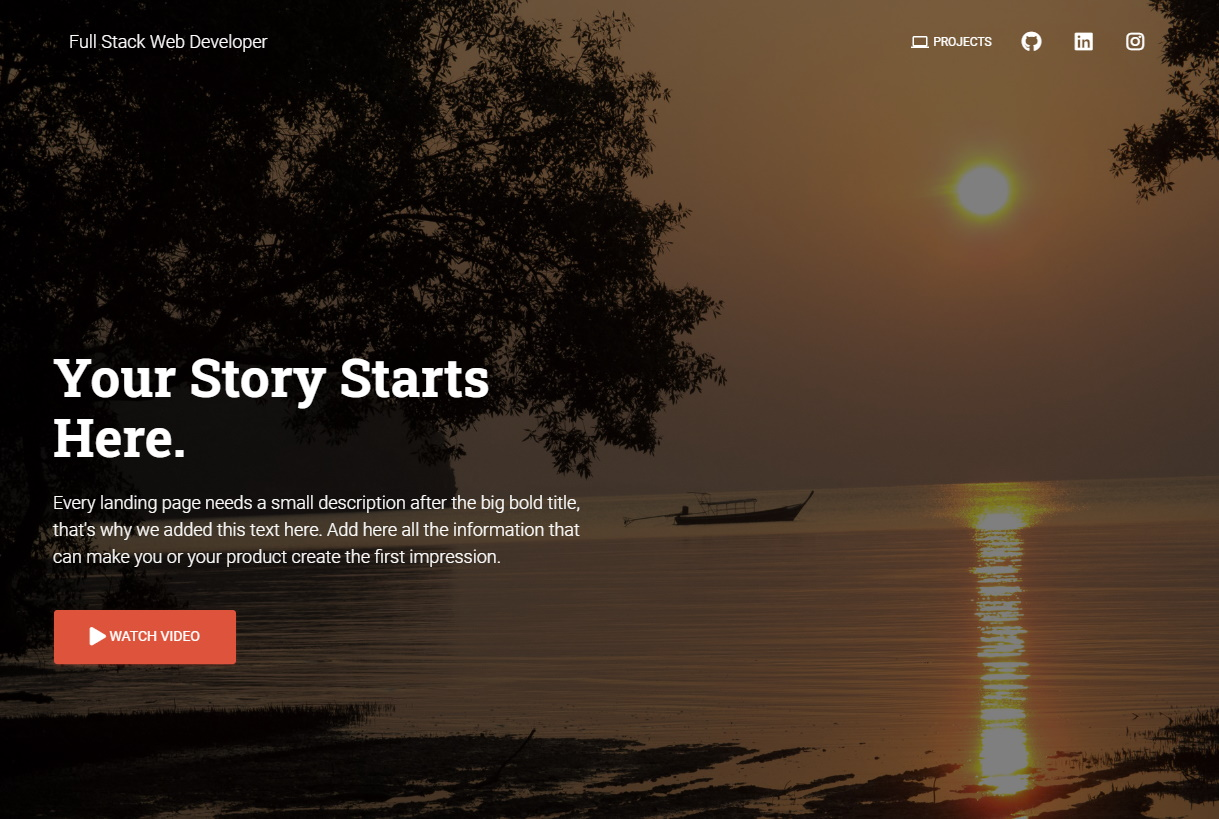
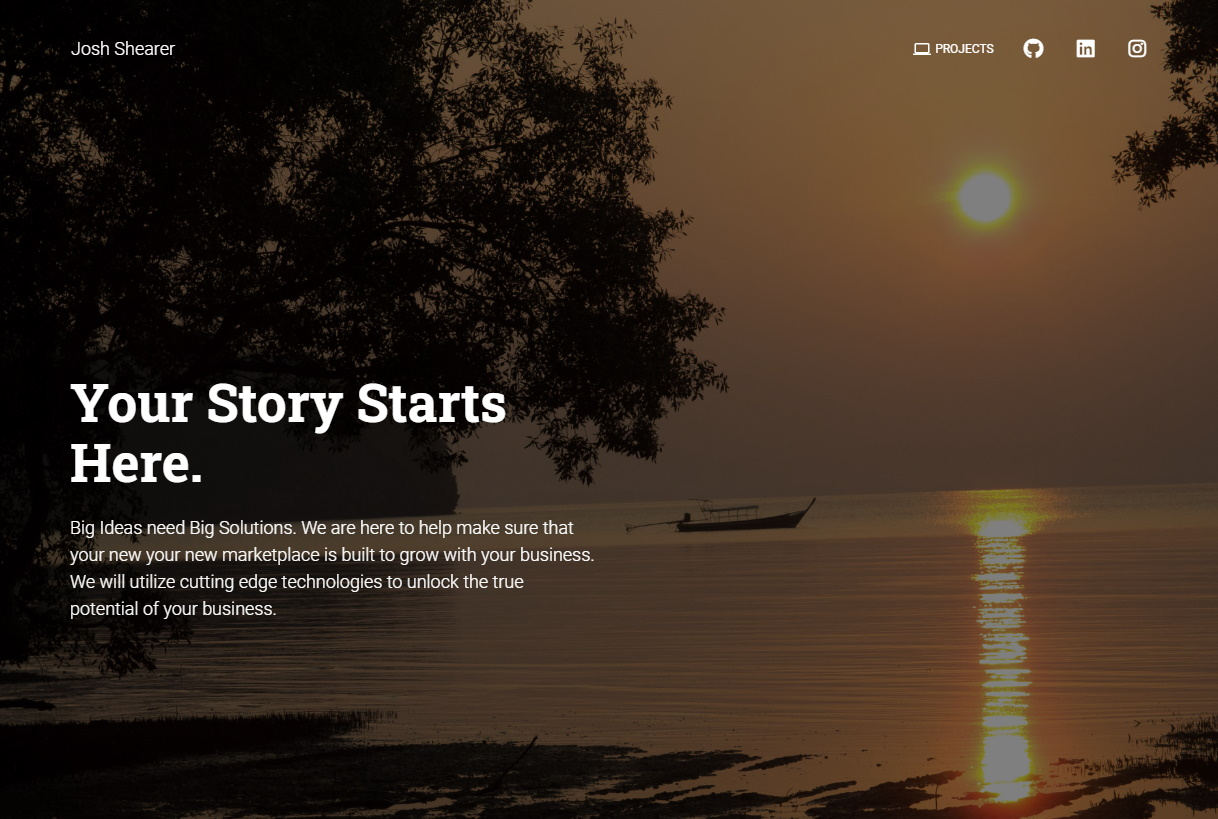
First solid rough draft complete.  Need to add data to projects in the future.

diff --git a/views/LandingPage/Sections/ProductSection.js b/views/LandingPage/Sections/ProductSection.js
@@ -3,9 +3,12 @@ import React from "react";
 import { makeStyles } from "@material-ui/core/styles";
 
 // @material-ui/icons
-import Chat from "@material-ui/icons/Chat";
+import VPNKey from "@material-ui/icons/VpnKey";
 import VerifiedUser from "@material-ui/icons/VerifiedUser";
 import Fingerprint from "@material-ui/icons/Fingerprint";
+import FlightTakeoff from "@material-ui/icons/FlightTakeoff";
+import SentimentVerySatisfied from "@material-ui/icons/SentimentVerySatisfied";
+import TrendingUp from "@material-ui/icons/TrendingUp";
 // core components
 import GridContainer from "components/Grid/GridContainer.js";
 import GridItem from "components/Grid/GridItem.js";
@@ -21,13 +24,13 @@ export default function ProductSection() {
     <div className={classes.section}>
       <GridContainer justify="center">
         <GridItem xs={12} sm={12} md={8}>
-          <h2 className={classes.title}>Let{"'"}s talk product</h2>
+          <h2 className={classes.title}>Let{"'"}s talk projects</h2>
           <h5 className={classes.description}>
-            This is the paragraph where you can write more details about your
-            product. Keep you user engaged by providing meaningful information.
-            Remember that by this time, the user is curious, otherwise he wouldn
-            {"'"}t scroll to get here. Add a button if you want the user to see
-            more.
+            We provide custom development solutions. Our focus in on small
+            business and startup's that need to develop a scalable web presence
+            in one or more of the following: eCommerce/Online shopping,
+            iPhone/Android app development (React), data analysis and machine
+            learning.
           </h5>
         </GridItem>
       </GridContainer>
@@ -35,17 +38,17 @@ export default function ProductSection() {
         <GridContainer>
           <GridItem xs={12} sm={12} md={4}>
             <InfoArea
-              title="Free Chat"
-              description="Divide details about your product or agency work into parts. Write a few lines about each one. A paragraph describing a feature will be enough."
-              icon={Chat}
+              title="Ecommerce"
+              description="Speed and security are a priority when helping our clients develop an ecommerce presence.  Providing a great customer experience will help your business grow beyond expectations."
+              icon={VPNKey}
               iconColor="info"
               vertical
             />
           </GridItem>
           <GridItem xs={12} sm={12} md={4}>
             <InfoArea
-              title="Verified Users"
-              description="Divide details about your product or agency work into parts. Write a few lines about each one. A paragraph describing a feature will be enough."
+              title="High Speed"
+              description="We optimize the front end on the same technology used to makes websites and apps like facebook ultra fast despite the large datasets present."
               icon={VerifiedUser}
               iconColor="success"
               vertical
@@ -53,9 +56,36 @@ export default function ProductSection() {
           </GridItem>
           <GridItem xs={12} sm={12} md={4}>
             <InfoArea
-              title="Fingerprint"
-              description="Divide details about your product or agency work into parts. Write a few lines about each one. A paragraph describing a feature will be enough."
+              title="Scalable"
+              description="We focus on the future of your business. From websites to apps to customer relationships.  We build solutions that are built to remain lighting fast requiring minimal upkeep as your business grows by magnitudes"
               icon={Fingerprint}
+              iconColor="danger"
+              vertical
+            />
+          </GridItem>
+          <GridItem xs={12} sm={12} md={4}>
+            <InfoArea
+              title="Data Driven"
+              description="We can help you put your data to use in a way that helps to grow your business.  Most data is collected but never completely utilized to drive improved sales and customer support."
+              icon={TrendingUp}
+              iconColor="danger"
+              vertical
+            />
+          </GridItem>
+          <GridItem xs={12} sm={12} md={4}>
+            <InfoArea
+              title="Deep Learning"
+              description="You would be surprised what happens when you put your existing dataset to good use."
+              icon={FlightTakeoff}
+              iconColor="danger"
+              vertical
+            />
+          </GridItem>
+          <GridItem xs={12} sm={12} md={4}>
+            <InfoArea
+              title="Friends and Partners"
+              description="We focus our business on helping our customers grow."
+              icon={SentimentVerySatisfied}
               iconColor="danger"
               vertical
             />

diff --git a/views/ProjectsPage/MyProjects.js b/views/ProjectsPage/MyProjects.js
@@ -3,7 +3,7 @@ export const MyProjects = [
     id: 0,
     title: "Travel Diary Mobile App",
     skills:
-      "Scrum, Design Patters, React State Management, Full Stack Web Developement, Authorization, CSS",
+      "Scrum, Design Patterns, React State Management, Full Stack Web Developement, Authorization, CSS",
     toolset: "React, NodeJs, Express, MongoDB, Firebase, JS, ",
     notableLibraries: "Material-UI",
     keyLessons:
@@ -16,12 +16,11 @@ export const MyProjects = [
   {
     id: 1,
     title: "Algorithmic Trading",
-    skills:
-      "Scrum, Design Patters, React State Management, Full Stack Web Developement, Authorization, CSS",
-    toolset: "React, NodeJs, Express, MongoDB, Firebase, JS, ",
+    skills: "Scrum, Design Patters, Python OOP, API interaction, Authorization",
+    toolset: "Python, API, Portfolio Management, Risk Management ",
     notableLibraries: "Material-UI",
     keyLessons:
-      "This was a challenging and pivotal project.  It taught me about all the intricasies of the react front-end especially as it relates to state management",
+      "This project is ongoing and has been a great opportunity to test trading strategies and free up some personal time in the process.",
     demoLink: "http://react-traveldiary.web.app",
     githubLink: "https://github.com/JoshShearer",
     imageLink: "https://live.staticflickr.com/4893/46246694874_c354531626_m.jpg"
@@ -30,11 +29,11 @@ export const MyProjects = [
     id: 2,
     title: "Nat. Lang Processing",
     skills:
-      "Scrum, Design Patters, React State Management, Full Stack Web Developement, Authorization, CSS",
-    toolset: "React, NodeJs, Express, MongoDB, Firebase, JS, ",
-    notableLibraries: "Material-UI",
+      "Design Patterns, Python, Deep Learning, NLP Techniques, Model Training and Testing",
+    toolset: "Python, NLP, spaCy",
+    notableLibraries: "Beautiful Soup",
     keyLessons:
-      "This was a challenging and pivotal project.  It taught me about all the intricasies of the react front-end especially as it relates to state management",
+      "This is a piece to a larger project of algorithmic trading based on real-time data.  It was very interestin gto learn NLP and couple it with sentiment analysis for the creation of a decision making trading engine.",
     demoLink: "http://react-traveldiary.web.app",
     githubLink: "https://github.com/JoshShearer",
     imageLink: "https://live.staticflickr.com/7074/7032446535_e6a40a93f5_m.jpg"
@@ -42,9 +41,8 @@ export const MyProjects = [
   {
     id: 3,
     title: "Sentiment Analysis Engine",
-    skills:
-      "Scrum, Design Patters, React State Management, Full Stack Web Developement, Authorization, CSS",
-    toolset: "React, NodeJs, Express, MongoDB, Firebase, JS, ",
+    skills: "Scrum, Design Patterns, Python, NLP, ",
+    toolset: "Python,  ",
     notableLibraries: "Material-UI",
     keyLessons:
       "This was a challenging and pivotal project.  It taught me about all the intricasies of the react front-end especially as it relates to state management",
@@ -57,7 +55,7 @@ export const MyProjects = [
     id: 4,
     title: "Rejuvination Massage",
     skills:
-      "Scrum, Design Patters, React State Management, Full Stack Web Developement, Authorization, CSS",
+      "React State Management, Full Stack Web Developement, Authorization, CSS",
     toolset: "React, NodeJs, Express, MongoDB, Firebase, JS, ",
     notableLibraries: "Material-UI",
     keyLessons:
@@ -79,5 +77,19 @@ export const MyProjects = [
     githubLink: "https://github.com/JoshShearer",
     imageLink:
       "https://img.webmd.com/dtmcms/live/webmd/consumer_assets/site_images/articles/health_tools/what_not_to_eat_when_pregnant_slideshow/photolibrary_rf_photo_of_sushi.jpg"
+  },
+  {
+    id: 6,
+    title: "Image Recognition",
+    skills:
+      "Scrum, Design Patters, React State Management, Full Stack Web Developement, Authorization, CSS",
+    toolset: "Python, TensorFlow",
+    notableLibraries: "Material-UI",
+    keyLessons:
+      "This was a challenging and pivotal project.  It taught me about all the intricasies of the react front-end especially as it relates to state management",
+    demoLink: "http://react-traveldiary.web.app",
+    githubLink: "https://github.com/JoshShearer",
+    imageLink:
+      "https://www.talkwalker.com/images/blog/image-recognition.png"
   }
 ];

diff --git a/views/ProfilePage/ProfilePage.js b/views/ProfilePage/ProfilePage.js
@@ -16,23 +16,16 @@ import GridItem from "components/Grid/GridItem.js";
 import HeaderLinks from "components/Header/HeaderLinks.js";
 import NavPills from "components/NavPills/NavPills.js";
 import Parallax from "components/Parallax/Parallax.js";
-// import MyCarousel from "components/Carousel/Carousel.js";
 import Quote from "components/Typography/Quote.js";
-import { MyPhotos } from "./MyPhotos";
+
 import profile from "assets/img/faces/Josh.png";
 
 import styles from "assets/jss/material-kit-react/views/profilePage.js";
 import { Motorcycle } from "@material-ui/icons";
 
 const useStyles = makeStyles(styles);
-const photoData = MyPhotos;
 
-const getPhotos = photoData => {
-  const images = photoData.photos.map(images => images.src);
-  // const carouselImages = images.map((image)=> )
-};
 export default function ProfilePage(props) {
-  // const Generate
   const classes = useStyles();
   const { ...rest } = props;
   const imageClasses = classNames(
@@ -102,10 +95,10 @@ export default function ProfilePage(props) {
             </GridContainer>
             <div className={classes.description}>
               <p>
-                An artist of considerable range, Chet Faker — the name taken by
-                Melbourne-raised, Brooklyn-based Nick Murphy — writes, performs
-                and records all of his own music, giving it a warm, intimate
-                feel with a solid groove structure.{" "}
+                A lifelong engineer with experience in fields ranging from product development 
+                to sales and industries involved with technology, manufacturing and marketing.
+                I focus on working to design innovative, creative solutions for clients in 
+                various roles and industries.
               </p>
               <div className={classes.typo}>
                 <Quote
@@ -128,7 +121,6 @@ export default function ProfilePage(props) {
                       tabButton: "PHOTOGRAPHY",
                       tabIcon: Camera,
                       tabContent: (
-                        // <MyCarousel modal={true} images={photoData}/>
                         <GridContainer justify="center">
                           <GridItem xs={12} sm={12} md={4}>
                             <img
@@ -295,10 +287,7 @@ export default function ProfilePage(props) {
                           <GridItem xs={12} sm={12} md={4}>
                             <img
                               alt="..."
-                              src="https://live.staticflickr.com/7822/39884966423_1fa301b24c_c.jpg"
-                              width="800"
-                              height="600"
-                              alt="20190110_132102"
+                              src="https://live.staticflickr.com/7822/39884966423_1fa301b24c_c.jpg" width="800" height="600" alt="20190110_132102"
                               // width="240" height="180" alt="20190105_104329"
                               className={navImageClasses}
                             />

diff --git a/views/LandingPage/LandingPage.js b/views/LandingPage/LandingPage.js
@@ -48,13 +48,13 @@ export default function LandingPage(props) {
             <GridItem xs={12} sm={12} md={6}>
               <h1 className={classes.title}>Your Story Starts Here.</h1>
               <h4>
-                Every landing page needs a small description after the big bold
-                title, that{"'"}s why we added this text here. Add here all the
-                information that can make you or your product create the first
-                impression.
+                Big Ideas need Big Solutions.  We are here to help make sure that your new
+                your new marketplace is built to grow with your
+                business. We will utilize cutting edge technologies to unlock the 
+                true potential of your business.
               </h4>
               <br />
-              <Button
+              {/* <Button
                 color="danger"
                 size="lg"
                 href="https://www.youtube.com/watch?v=dQw4w9WgXcQ&ref=creativetim"
@@ -63,7 +63,7 @@ export default function LandingPage(props) {
               >
                 <i className="fas fa-play" />
                 Watch video
-              </Button>
+              </Button> */}
             </GridItem>
           </GridContainer>
         </div>

diff --git a/views/HomePage/HomePage.js b/views/HomePage/HomePage.js
@@ -57,13 +57,12 @@ export default function Components(props) {
           <div className={classes.container}>
             <GridContainer justify="center">
               <GridItem xs={12} sm={12} md={8}>
-                <h2>Completed with examples</h2>
+                <h2>A passion for challenging projects</h2>
                 <h4>
-                  The kit comes with three pre-built pages to help you get
-                  started faster. You can change the text and images and you
-                  {"'"}re good to go. More importantly, looking at them will
-                  give you a picture of what you can build with this powerful
-                  kit.
+                  Welcome. Check out some of the projects that I am working on.
+                  I enjoy web development and machine learning. In my free
+                  time I like to invest and automate the process of decision
+                  making. Click below to learn more.
                 </h4>
               </GridItem>
             </GridContainer>

diff --git a/views/LandingPage/Sections/WorkSection.js b/views/LandingPage/Sections/WorkSection.js
@@ -22,10 +22,7 @@ export default function WorkSection() {
         <GridItem cs={12} sm={12} md={8}>
           <h2 className={classes.title}>Work with me</h2>
           <h4 className={classes.description}>
-            Divide details about your product or agency work into parts. Write a
-            few lines about each one and contact us about any further
-            collaboration. We will responde get back to you in a couple of
-            hours.
+            If you would like more information please enter your contact information below and we will get back to you within 24 hours.
           </h4>
           <form>
             <GridContainer>

diff --git a/views/ProjectsPage/ProjectsPage.js b/views/ProjectsPage/ProjectsPage.js
@@ -58,6 +58,10 @@ export default function ProfilePage(props) {
         brand="Josh Shearer"
         rightLinks={<HeaderLinks />}
         fixed
+        changeColorOnScroll={{
+          height: 400,
+          color: "black"
+        }}
         {...rest}
       />
       <Parallax filter image={require("assets/img/RioEvening.jpg")} />
